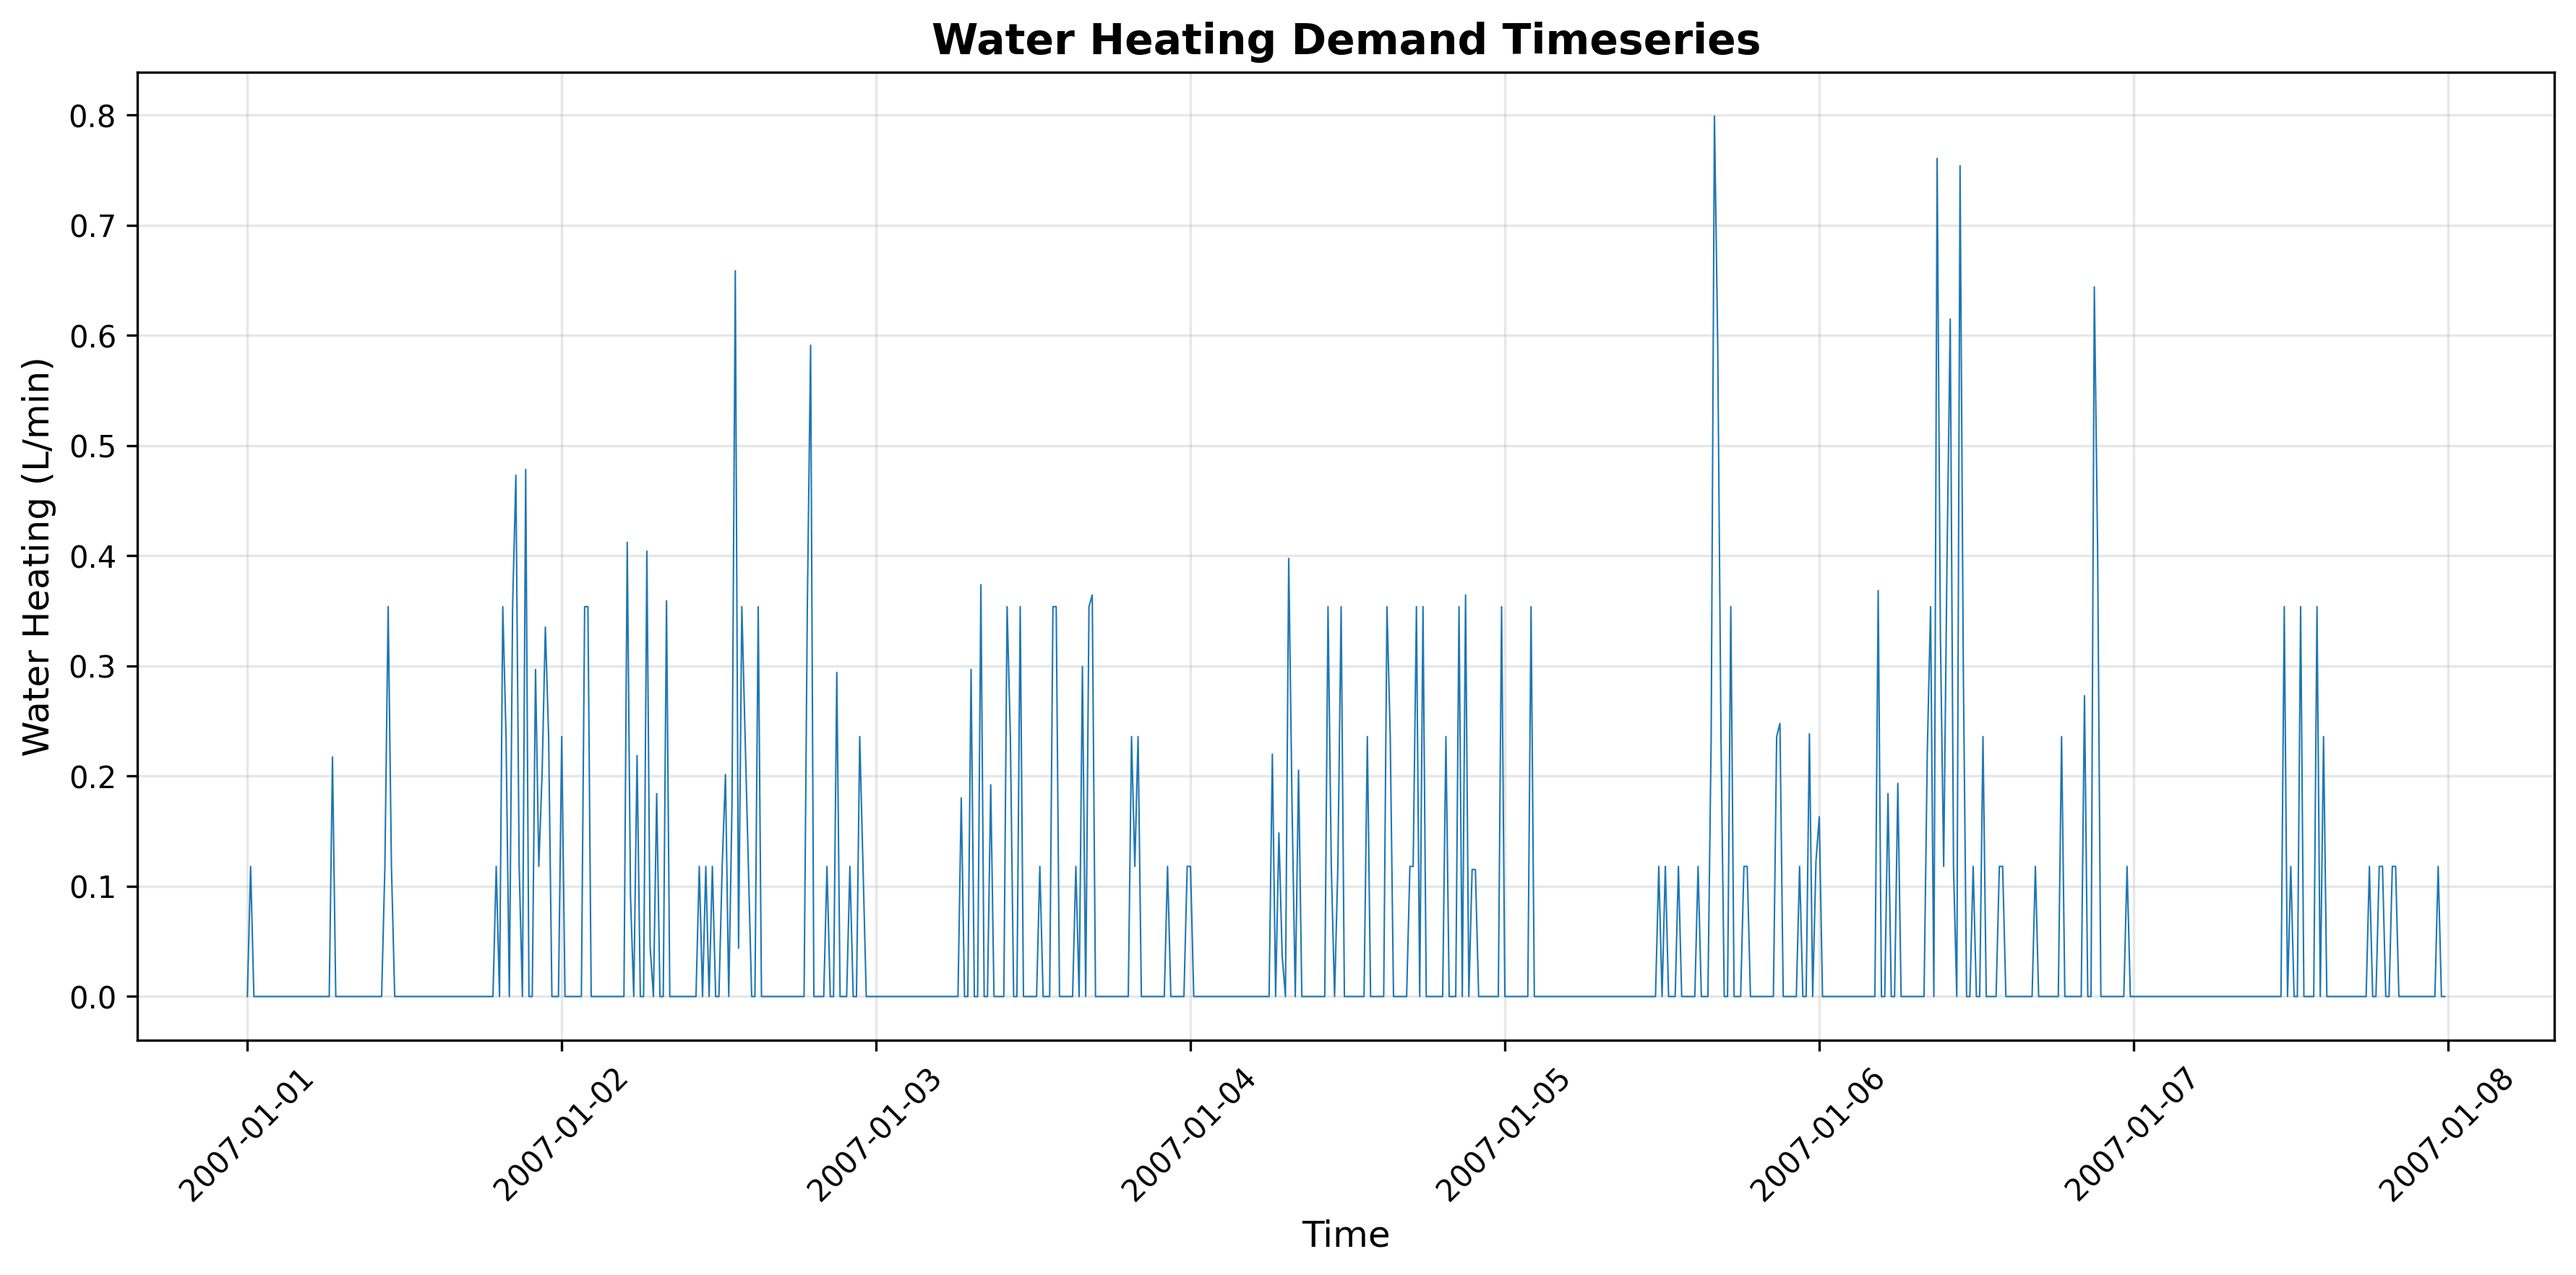
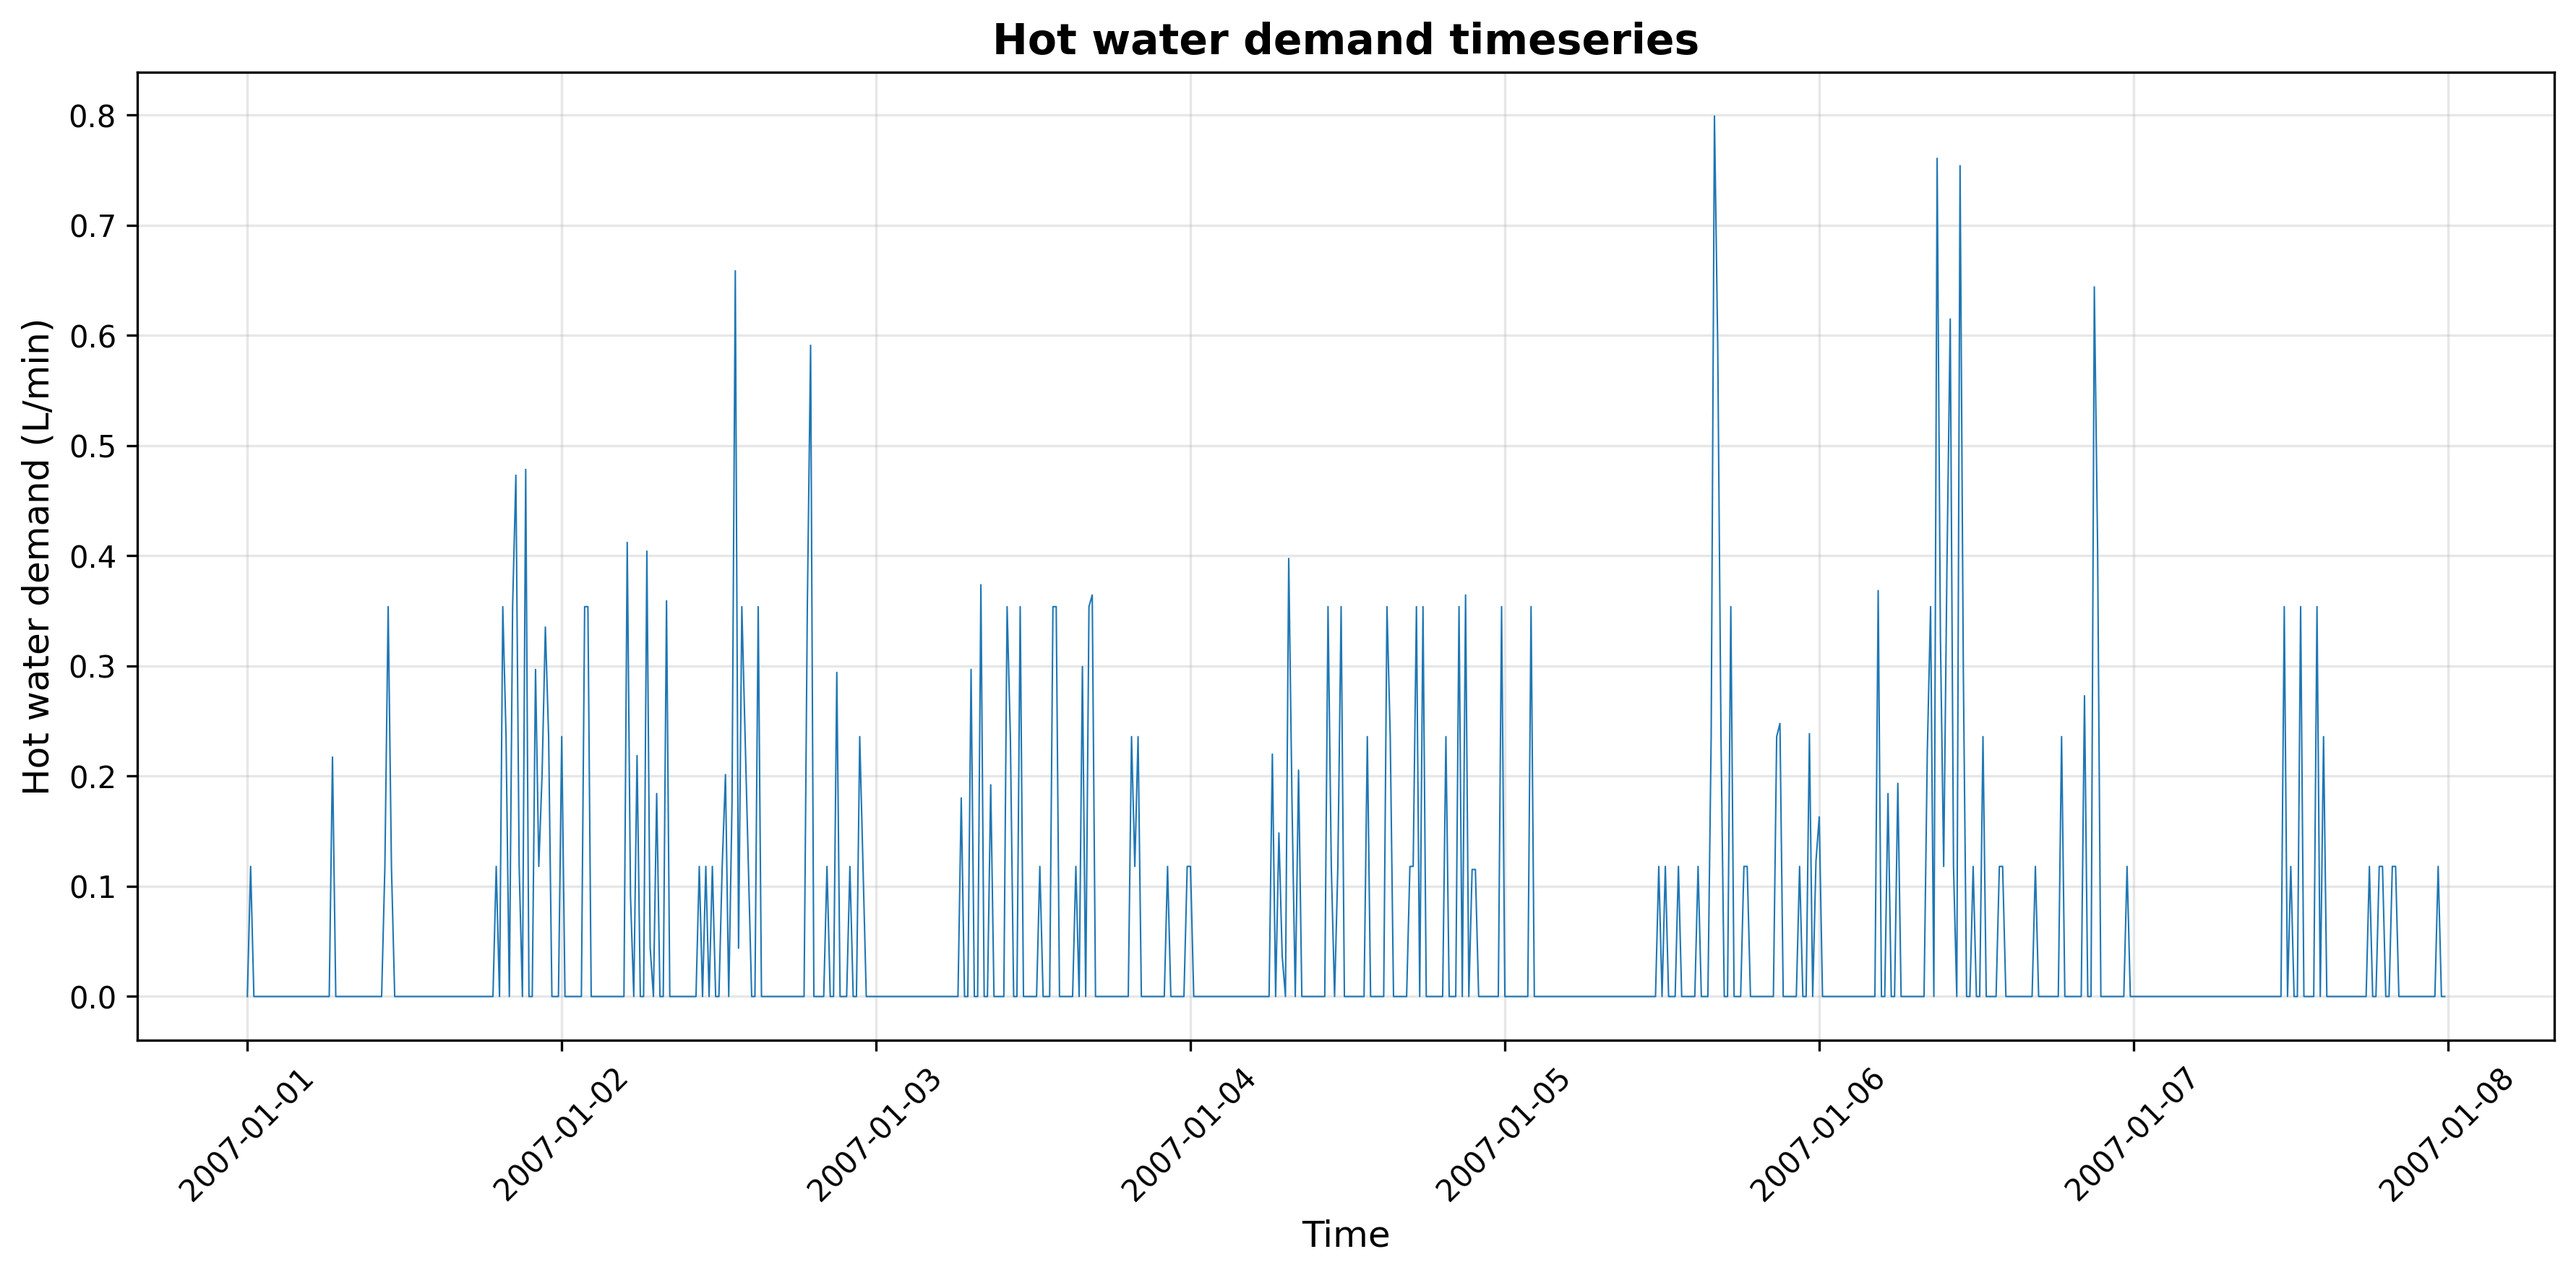
Fix hot water demand figure

Changed region(s): [[0.3426, 0.0, 0.6852, 0.0623], [0.0, 0.2805, 0.0311, 0.6232]]

diff --git a/rate_design_platform/plot_water_demand.py b/rate_design_platform/plot_water_demand.py
@@ -9,6 +9,7 @@ from ochre import Dwelling  # type: ignore[import-untyped]
 base_path = os.path.abspath(os.path.join(os.path.dirname(__file__), ".."))
 input_path = os.path.join(base_path, "inputs")
 output_path = os.path.join(base_path, "outputs")
+docs_image_path = os.path.join(base_path, "docs", "images")
 
 # Define file paths for building and schedule HPXML
 hpxml_building_file = os.path.join(input_path, "bldg0000072-up00.xml")  # Path to building HPXML
@@ -60,9 +61,9 @@ plt.figure(figsize=(12, 6))
 plt.plot(df["Time"], df["Water Heating (L/min)"], linewidth=0.5)
 
 # Customize the plot
-plt.title("Water Heating Demand Timeseries", fontsize=14, fontweight="bold")
+plt.title("Hot water demand timeseries", fontsize=14, fontweight="bold")
 plt.xlabel("Time", fontsize=12)
-plt.ylabel("Water Heating (L/min)", fontsize=12)
+plt.ylabel("Hot water demand (L/min)", fontsize=12)
 plt.grid(True, alpha=0.3)
 
 # Rotate x-axis labels for better readability
@@ -72,6 +73,6 @@ plt.xticks(rotation=45)
 plt.tight_layout()
 
 # Show the plot
-plt.savefig(os.path.join(output_path, "water_heating_timeseries.png"), dpi=300, bbox_inches="tight")
-print(f"Plot saved to: {os.path.join(output_path, 'water_heating_timeseries.png')}")
+plt.savefig(os.path.join(docs_image_path, "water_heating_timeseries.png"), dpi=300, bbox_inches="tight")
+print(f"Plot saved to: {os.path.join(docs_image_path, 'water_heating_timeseries.png')}")
 plt.close()
